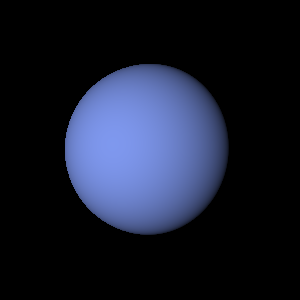
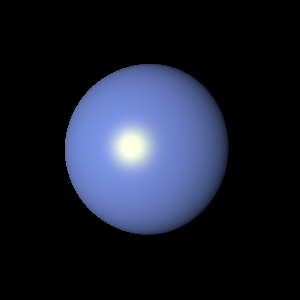
Implement Phong

Changed region(s): [[0.36, 0.39, 0.54, 0.57]]

diff --git a/python_to_do.py b/python_to_do.py
@@ -76,6 +76,7 @@ class Sphere:
         self.radius = radius
         self.shader = shader
         self.color = npToVector3(shader.diffuseColor.toUINT8())
+        self.specColor = npToVector3(shader.specularColor.toUINT8())
 
 
     def intersection(self, ray):
@@ -103,11 +104,12 @@ class Box:
     def __init__(self, minPt, maxPt, shader:Shader):
         self.minPt = minPt
         self.maxPt = maxPt
-        self.shader = Shader
+        self.shader = shader
         self.color = npToVector3(shader.diffuseColor.toUINT8())
+        self.specColor = npToVector3(shader.specularColor.toUINT8())
 
     def intersection(self, ray):
-        # get mimimum and maximum enter value
+        # 3 slab method
         
         # 어떤 종류의 plane에 normal하게 되는지 저장하는 index
         # AABB이므로 가능한 normal vectors는 6개로 정해져 있음.
@@ -153,7 +155,6 @@ class Box:
             if t < 0:
                 return Intersection( Vector3(0,0,0), -1, Vector3(0,0,0), self)
         
-
         # Noraml Vector 설정
 
         if t == txMin:
@@ -225,8 +226,15 @@ def trace(ray, objects, lights):
             # col = Vector3(0, 0, 0)
         else:
             lightRay = Ray(intersect.p, (light.o-intersect.p).normal())
+            # Lambertian Shading
             if object_ray(lightRay, objects, intersect.obj).d == -1:
-                col += intersect.obj.color * intersect.n.normal().dot((light.o - intersect.p).normal()*light.intensity)
+                col += intersect.obj.color * intersect.n.normal().dot(lightRay.d) * light.intensity
+
+                # Phong Shading
+                if intersect.obj.shader.type == "Phong":
+                    exp = intersect.obj.shader.exponent
+                    vlBisector = (lightRay.d + ray.d * -1).normal()
+                    col += intersect.obj.specColor * pow(intersect.n.normal().dot(vlBisector), exp) * light.intensity
             else:
                 pass
                 # 물체 위 그림자
